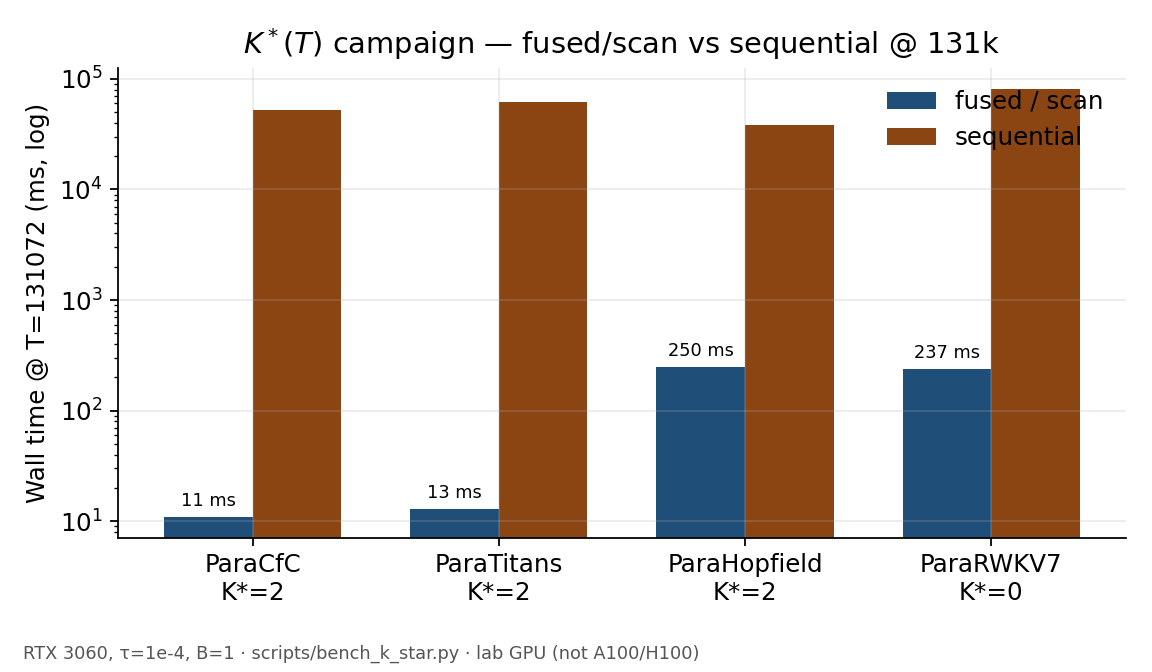
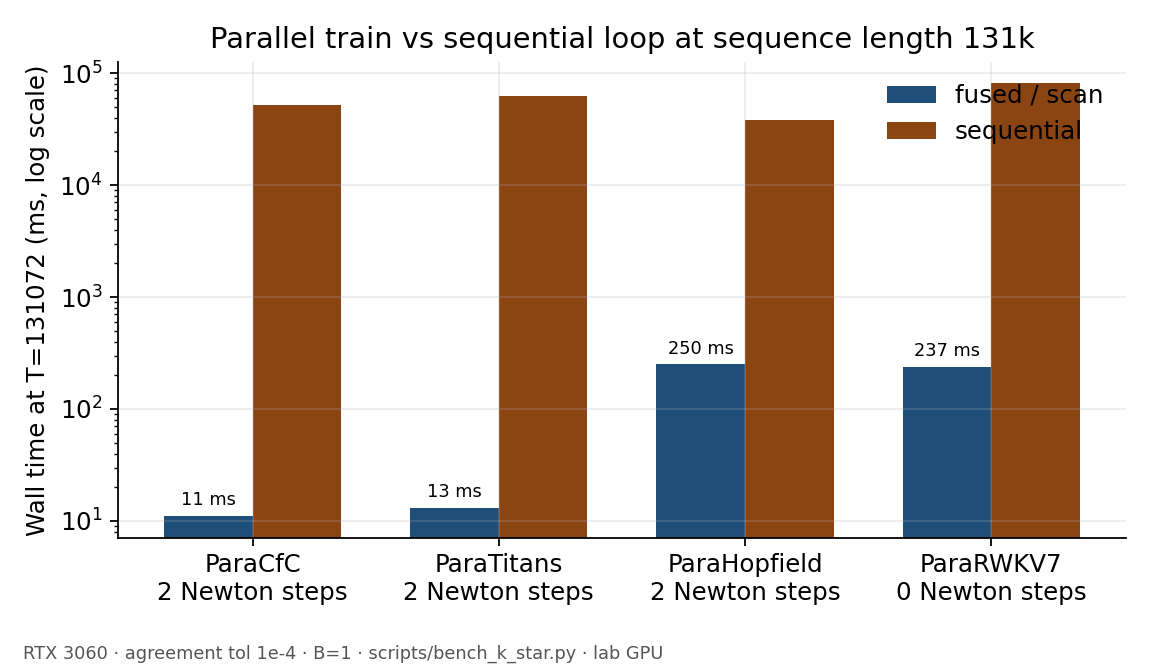
Explain lab jargon for first-time README readers.
Add a glossary (K*, T, fused, Jacobian), plain-language News/benches, and
clearer plot titles so critical Newton depth is defined before it appears.

diff --git a/scripts/plot_readme_assets.py b/scripts/plot_readme_assets.py
@@ -62,7 +62,7 @@ def plot_slstm_speedup() -> Path:
     ax.set_xticklabels([str(t) for t in t_vals])
     ax.set_xlabel("Sequence length T")
     ax.set_ylabel("Forward median (ms)")
-    ax.set_title("ParaSLSTM diag — fused Newton vs sequential")
+    ax.set_title("ParaSLSTM — parallel Newton train vs sequential time loop")
     ax.legend(frameon=False, loc="upper left")
     fig.text(
         0.02,
@@ -83,7 +83,6 @@ def plot_k_star_wall() -> Path:
     cells = ["ParaCfC", "ParaTitans", "ParaHopfield", "ParaRWKV7"]
     fused_ms = [11, 13, 250, 237]
     seq_ms = [52_000, 62_000, 38_000, 81_000]
-    kstar = ["K*=2", "K*=2", "K*=2", "K*=0"]
     fig, ax = plt.subplots(figsize=(7.2, 4.2), dpi=160)
     xs = range(len(cells))
     w = 0.36
@@ -103,9 +102,11 @@ def plot_k_star_wall() -> Path:
     )
     ax.set_yscale("log")
     ax.set_xticks(list(xs))
-    ax.set_xticklabels([f"{c}\n{k}" for c, k in zip(cells, kstar, strict=True)])
-    ax.set_ylabel("Wall time @ T=131072 (ms, log)")
-    ax.set_title(r"$K^*(T)$ campaign — fused/scan vs sequential @ 131k")
+    ax.set_xticklabels(
+        [f"{c}\n{k} Newton steps" for c, k in zip(cells, ["2", "2", "2", "0"], strict=True)]
+    )
+    ax.set_ylabel("Wall time at T=131072 (ms, log scale)")
+    ax.set_title("Parallel train vs sequential loop at sequence length 131k")
     ax.legend(frameon=False)
     for bar, val in zip(bars, fused_ms, strict=True):
         ax.text(
@@ -119,7 +120,7 @@ def plot_k_star_wall() -> Path:
     fig.text(
         0.02,
         0.02,
-        "RTX 3060, τ=1e-4, B=1 · scripts/bench_k_star.py · lab GPU",
+        "RTX 3060 · agreement tol 1e-4 · B=1 · scripts/bench_k_star.py · lab GPU",
         fontsize=8,
         color="#555555",
     )

diff --git a/README.md b/README.md
@@ -9,16 +9,21 @@
 [![ParaRNN](https://img.shields.io/static/v1?label=ParaRNN&message=ICLR%202026&color=B31B1B&logo=arXiv)](https://arxiv.org/abs/2510.21450)
 [![M²RNN](https://img.shields.io/static/v1?label=M%C2%B2RNN&message=arXiv%3A2603.14360&color=B31B1B&logo=arXiv)](https://arxiv.org/abs/2603.14360)
 
-**Hardware-efficient building blocks for nonlinear recurrence:** parallel
-Newton+scan training (span O(log T)) and O(1) sequential decode —
-GRU, LSTM, sLSTM, matrix-state, Liquid, Hopfield, RWKV-7, Titans-style memory,
-and more.
+**Train nonlinear RNNs in parallel over the sequence, decode one step at a
+time.** Package **`pararnn-torch`**, import **`pararnn`**.
 
-Package **`pararnn-torch`**, import **`pararnn`**. Alpha — fused kernels are
-Triton on CUDA (compute capability ≥ 8.0).
+Ordinary GRU/LSTM/sLSTM (and cousins) usually walk token-by-token. That is
+fine for generation, and slow for training long contexts. ParaRNN trains the
+*same* cell with a few Newton updates + a parallel scan over time — so
+training cost grows much more gently with sequence length `T`, while
+`.eval()` still uses the familiar one-step recurrence.
+
+Alpha. Fast fused kernels need NVIDIA Ampere+ (CUDA compute capability ≥ 8.0)
+and Triton; older GPUs fall back to a slower but correct path.
 
 - [News](#news)
 - [What you get](#what-you-get)
+- [Glossary](#glossary)
 - [Models](#models)
 - [Install](#install)
 - [Quickstart](#quickstart)
@@ -35,57 +40,72 @@ Triton on CUDA (compute capability ≥ 8.0).
 
 ## News
 
-- **[2026-09]** K*(T) campaign through **T=131072**: CfC / Hopfield /
-  Titans stay K*=2 (H1); RWKV-7 linear monoid K*=0. Auto
-  schedules via `NewtonConfig(max_iters=None)`.
+- **[2026-09]** Long-context campaign through **T=131072**: several cells need
+  only **2 Newton iterations** to match sequential unroll; RWKV-7 needs **0**
+  (exact parallel scan). `NewtonConfig(max_iters=None)` picks those schedules.
 - **[2026-09]** Cell zoo: `ParaTitans`, `ParaRWKV7`, `ParaHopfield`, `ParaCfC`,
   `ParaNLRU` (v0.13–0.17).
 - **[2026-09]** Product entry: `ParaSLSTMBlock`, `ParaSLSTMForCausalLM`
   (`labels` CE, safetensors), continuous batch + vLLM plugin hooks.
-- **[2026-09]** Factorized Newton for `ParaGRU(mix='head')` / Dreamer slots;
-  M²RNN factorized Jacobian + K*(T) asymptotics.
+- **[2026-09]** Factorized Newton for Dreamer-style `ParaGRU(mix='head')`;
+  matrix-state M²RNN with measured iteration growth.
 
 ## What you get
 
-ParaRNN is a **library for nonlinear recurrent sequence models** — the FLA /
-FlashAttention role for cells whose Jacobian is structured enough for Newton +
-associative scan.
+A library of **nonlinear recurrent cells** with one training/inference API —
+in the same niche as FlashAttention / Flash Linear Attention, for recurrence
+instead of attention.
 
-- **Parallel train** — Alg. 1 Newton + PCR / fused Triton; measured speedups
-  of 100–1000× vs same-cell sequential on long T
-- **O(1) decode** — sequential `step`; CUDA `T=1` Triton `decode_step` (+ CUDA
-  graphs via `decode_wx`)
-- **Growing cell catalog** — diagonal, head-block, dense, and matrix-state
-  Jacobians under one `ParaRNN` / `newton_apply` surface
-- **Stack-ready entrypoints** — trunk block, CausalLM, paged state,
-  continuous batch, speculative verify, optional vLLM registration
-- **Honest depth** — measured K*(T) envelopes (`max_iters=None` or pin);
-  lab grid through 131k tokens
-- **Train hygiene** — packed eq. 2.6 VJP (no Triton atomics),
-  `torch.compile` fullgraph presets, DDP / FSDP2, deterministic-path checks
+- **Fast training on long `T`** — a handful of Newton iterations + parallel
+  scan (paper Alg. 1); measured **100–1000×** vs walking the same cell
+  token-by-token
+- **Cheap decode** — `.eval()` uses sequential `step`; on CUDA with `T=1`,
+  a fused `decode_step` (+ optional CUDA graphs)
+- **One API, many cells** — GRU, LSTM, sLSTM, Liquid CfC, Hopfield, RWKV-7,
+  Titans-style memory, …
+- **Stack-ready** — residual trunk block, CausalLM, paged state, continuous
+  batch, speculative verify, optional vLLM registration
+- **Honest iteration budgets** — we measure how many Newton steps you need
+  vs `T` (see [Glossary](#glossary)); `max_iters=None` uses those tables
+- **Train hygiene** — packed backward, `torch.compile` presets, DDP / FSDP2
 
 **Swap paths** (details in [`docs/adoption.md`](docs/adoption.md)):
 
 - Attention trunk → `ParaSLSTMBlock`
 - Dreamer RSSM → `ParaGRU(mix='head', n_heads=8)`
-- Liquid / CfC → `ParaCfC` (Δt as last channel of `x`)
+- Liquid / CfC → `ParaCfC` (put Δt in the last channel of `x`)
+
+## Glossary
+
+| Term | Meaning here |
+|---|---|
+| **T** | Sequence length (tokens / time steps). |
+| **Cell** | One recurrent update `h_t = f(h_{t-1}, x_t)` (GRU, sLSTM, …). |
+| **Sequential** | The usual for-loop over time — ground truth and the decode path. |
+| **Newton + scan** | Parallel train path: refine a whole-sequence guess with a few Newton steps; each step uses an associative scan over `T`. |
+| **K / `max_iters`** | Number of Newton iterations you budget per forward. |
+| **K\*(T)** | Smallest `K` where parallel output still matches sequential within tolerance τ≈1e-4. Measured per cell vs `T`; often **constant** (2) through 131k tokens. |
+| **Fused** | Triton CUDA kernel for that Newton+scan path (Ampere+). |
+| **Jacobian class** | Structure of ∂f/∂h — `diag` / `head` / `dense` / matrix-state — picks which kernel/scan we use. |
+
+More on iterations: [`FAQs.md`](FAQs.md#what-is-critical-newton-depth-k).
 
 ## Models
 
 | Cell | Jacobian | Parallel path | Notes |
 |---|---|---|---|
-| [`ParaSLSTM`](docs/cells.md#paraslstm-xlstm-style) | diag / head | fused Alg. 1 | main xLSTM-style fused path (`mix='diag'`) |
+| [`ParaSLSTM`](docs/cells.md#paraslstm-xlstm-style) | diag / head | fused Newton | main xLSTM-style path (`mix='diag'`) |
 | [`ParaGRU`](docs/cells.md#paragru--paralstm-dreamer-style-block-gru) / `ParaLSTM` | diag / head | fused / factorized | Dreamer: `mix='head', n_heads=8` |
-| [`ParaM2RNN`](docs/cells.md#param2rnn-research) | factor K×V | factorized Newton | matrix state; K*(T) ~ Θ(log T) |
+| [`ParaM2RNN`](docs/cells.md#param2rnn-research) | factor K×V | factorized Newton | matrix state; iterations grow ~log T |
 | [`ParaNLRU`](docs/cells.md#paranlru) | diag | fused | Griffin / RG-LRU-style nonlinear slot |
 | [`ParaCfC`](docs/cells.md#paracfc) | diag | fused | Liquid CfC; Δt = last channel of `x` |
-| [`ParaHopfield`](docs/cells.md#parahopfield) | dense | `scan_dense` | Modern Hopfield; keep d_h ≤ 32 |
-| [`ParaRWKV7`](docs/cells.md#pararwkv7) | linear monoid | associative `(G,U)` scan | RWKV-7 Goose; K*=0 |
+| [`ParaHopfield`](docs/cells.md#parahopfield) | dense | dense scan | Modern Hopfield; keep d_h ≤ 32 |
+| [`ParaRWKV7`](docs/cells.md#pararwkv7) | linear monoid | exact `(G,U)` scan | RWKV-7 Goose; **no Newton** (K\*=0) |
 | [`ParaTitans`](docs/cells.md#paratitans) | diag | fused | shallow L=1 surprise-GD memory |
 
-Full snippets: [`docs/cells.md`](docs/cells.md). Newton+scan core follows
-[Danieli et al., ICLR 2026](https://arxiv.org/abs/2510.21450). Extras (HF
-wrappers, Mamba-predictor hybrids, IFT adjoint notes) are this repo’s.
+Full snippets: [`docs/cells.md`](docs/cells.md). Core algorithm:
+[Danieli et al., ICLR 2026](https://arxiv.org/abs/2510.21450). HF wrappers and
+serve hooks are this repo’s extras.
 
 ## Install
 
@@ -94,7 +114,7 @@ wrappers, Mamba-predictor hybrids, IFT adjoint notes) are this repo’s.
 | Command | see below | `git clone … && uv sync --group dev` |
 | PyTorch | bring your own (CPU or CUDA) | pinned in `pyproject.toml` (cu128) |
 | Python | 3.10+ | 3.10+ |
-| Fused Triton | CUDA CC ≥ 8.0 | same; else `scan_backend="auto"` → eager |
+| Fused Triton | CUDA CC ≥ 8.0 (Ampere+) | same; else `scan_backend="auto"` → eager |
 
 ```bash
 # when published on PyPI:
@@ -170,8 +190,9 @@ y = model(torch.randn(4, 128, 32, device=device))  # .train() → Newton
 
 ## Feel it (60s)
 
-Z₂ prefix tagging ([Merrill et al.](https://arxiv.org/abs/2404.08819)): last-token
-accuracy **1.0** at train length 16 and held-out 32 for ParaSLSTM Newton.
+Toy task: running XOR on a bit string (prefix parity). A stacked ParaSLSTM
+trained with Newton reaches **last-token accuracy 1.0** at length 16 and still
+**1.0** at held-out length 32 — the nonlinear recurrence carries the bit.
 
 ```bash
 uv run python examples/parity.py
@@ -183,14 +204,20 @@ Interactive tour: [`notebooks/paraslstm_demo.ipynb`](notebooks/paraslstm_demo.ip
 
 ## Benchmarks
 
-Lab GPUs (RTX 2080 Ti / 3060) — honest consumer cards; regenerate plots with
+Two comparisons, both on **the same cell**:
+
+1. **Fused Newton** (this library’s parallel train path) vs **sequential**
+   (`torch.compile` of the usual time loop).
+2. At very long `T`, how many Newton iterations you actually need (**K\***)
+   and what wall time that costs.
+
+Lab GPUs (RTX 2080 Ti / 3060) — consumer cards; regenerate plots with
 `uv run python scripts/plot_readme_assets.py`.
 
 ![ParaSLSTM fused Newton vs sequential](assets/slstm_fused_vs_sequential.png)
 
 Diag-sLSTM forward median (ms), B=8, d_h=256, float32, RTX 2080 Ti
-(`scripts/slstm_vs_flashrnn.py`). Fused Newton = this library’s Alg. 1;
-sequential = `torch.compile` of the same cell.
+(`scripts/slstm_vs_flashrnn.py`):
 
 | T | fused Newton | sequential compiled |
 |------:|-------------:|--------------------:|
@@ -199,17 +226,19 @@ sequential = `torch.compile` of the same cell.
 | 2048 | 29.1 | 840 |
 | 4096 | 69.1 | 1735 |
 
-![K*(T) wall time at T=131072](assets/k_star_wall_131k.png)
+![Newton iterations and wall time at T=131072](assets/k_star_wall_131k.png)
 
-Long-context K*(T) + wall time (`scripts/bench_k_star.py`, RTX 3060,
-τ=1e-4, B=1):
+At **T=131072**, agreement tolerance τ=1e-4, B=1, RTX 3060
+(`scripts/bench_k_star.py`). Labels under each cell are the measured Newton
+budget K\* (how many iterations match sequential). Blue = parallel path;
+brown = sequential for-loop:
 
-| Cell | K* through T=131072 | @131k fused/scan vs seq |
+| Cell | Newton iters K\* through T=131072 | @131k parallel vs sequential |
 |---|---|---|
-| ParaCfC | 2 (H1) | ~11 ms vs ~52 s (~4600×) |
-| ParaTitans | 2 (H1) | ~13 ms vs ~62 s (~5000×) |
-| ParaHopfield | 2 (H1) | ~250 ms vs ~38 s (~150×) |
-| ParaRWKV7 | 0 (linear) | ~237 ms vs ~81 s (~340×, slim 1×16) |
+| ParaCfC | 2 (flat in T) | ~11 ms vs ~52 s (~4600×) |
+| ParaTitans | 2 (flat in T) | ~13 ms vs ~62 s (~5000×) |
+| ParaHopfield | 2 (flat in T) | ~250 ms vs ~38 s (~150×) |
+| ParaRWKV7 | 0 (exact scan) | ~237 ms vs ~81 s (~340×, slim 1×16) |
 
 ParaNLRU smoke (3060, B=8, T=2048, d_h=256, K=3): fused
 **~2.7 ms** vs sequential **~549 ms**.
@@ -249,7 +278,8 @@ Smoke: [`examples/rssm_recurrent.py`](examples/rssm_recurrent.py).
 
 `ParaM2RNN`, `ParaNLRU`, `ParaCfC`, `ParaHopfield`, `ParaRWKV7`, `ParaTitans` —
 see [`docs/cells.md`](docs/cells.md). Pin Newton depth with `max_iters=int`,
-`max_iters=None` (auto K*(T)), or `newton_iters_by_t={…}`.
+use `max_iters=None` for auto schedules from measured K\*(T), or pass
+`newton_iters_by_t={…}`.
 
 ## Training
 
@@ -261,12 +291,12 @@ Distributed wrap: [`docs/distributed.md`](docs/distributed.md) ·
 
 ## Evaluation
 
-- **Numerics** — sequential ↔ Newton agreement (`pytest -m cuda`); residual
-  history on divergence.
-- **Expressivity** — Z₂ parity ([`examples/parity.py`](examples/parity.py)).
+- **Numerics** — parallel vs sequential agreement (`pytest -m cuda`); residual
+  history if Newton fails to converge
+- **Expressivity** — running-XOR parity ([`examples/parity.py`](examples/parity.py))
 - **Wall-clock** — [`scripts/bench_k_star.py`](scripts/bench_k_star.py),
-  [`scripts/slstm_vs_flashrnn.py`](scripts/slstm_vs_flashrnn.py).
-- **LM smoke** — BabyLM drop-in / distill notes under [`results/`](results/).
+  [`scripts/slstm_vs_flashrnn.py`](scripts/slstm_vs_flashrnn.py)
+- **LM smoke** — BabyLM notes under [`results/`](results/)
 
 ## Examples
 
@@ -275,7 +305,7 @@ Distributed wrap: [`docs/distributed.md`](docs/distributed.md) ·
 | [`causal_lm_smoke.py`](examples/causal_lm_smoke.py) | CausalLM CE + generate + safetensors | `uv run python examples/causal_lm_smoke.py` |
 | [`continuous_batch.py`](examples/continuous_batch.py) | Packed prefill + T=1 via `BlockStackPool` | `uv run python examples/continuous_batch.py` |
 | [`rssm_recurrent.py`](examples/rssm_recurrent.py) | Dreamer `ParaGRU(mix='head')` | `uv run python examples/rssm_recurrent.py` |
-| [`parity.py`](examples/parity.py) | Z₂ vs linear SSM | `uv run python examples/parity.py` |
+| [`parity.py`](examples/parity.py) | Running XOR vs linear SSM | `uv run python examples/parity.py` |
 | [`decode_step.py`](examples/decode_step.py) | T=1 Triton vs eager | `uv run python examples/decode_step.py` |
 | [`ddp_fsdp.py`](examples/ddp_fsdp.py) | DDP / FSDP2 wrap | `uv run torchrun --nproc_per_node=2 examples/ddp_fsdp.py` |
 | [`speculative_draft.py`](examples/speculative_draft.py) | Linear-draft verify | `uv run python examples/speculative_draft.py` |
@@ -292,7 +322,7 @@ More: [`scripts/README.md`](scripts/README.md). Distributed demos:
 - **CausalLM / serve** — `ParaSLSTMForCausalLM`, `BlockStackPool`,
   `vllm.general_plugins` ([`docs/vllm.md`](docs/vllm.md)).
 - **Solver** — `NewtonConfig(scan_backend="auto", max_iters=None|int)`;
-  `picard_iters` for sLSTM / M²RNN warm-starts.
+  `picard_iters` warms the first guess for sLSTM / M²RNN.
 - **Speculative** — `verify_linear_draft`.
 - **Paged** — `PagedStatePool` / `paged_apply`.
 - **Decode** — `decode_step`, `decode_wx`, `can_decode_step`.
@@ -311,10 +341,11 @@ h = sequential_apply(cell, x)
 
 ## Compatibility
 
-- **`torch.compile`:** compile-safe preset (fixed K, no residual host sync)
-  → `fullgraph=True` on eager and fused (`tests/numerics/test_compile.py`).
+- **`torch.compile`:** compile-safe preset (fixed Newton iters, no residual
+  host sync) → `fullgraph=True` on eager and fused
+  (`tests/numerics/test_compile.py`).
 - **AMP:** module/`x` dtype explicit; under outer autocast Newton opts out so
-  eq. 2.6 stays one dtype (`tests/numerics/test_autocast.py`).
+  the backward stays one dtype (`tests/numerics/test_autocast.py`).
 - **DDP / FSDP / checkpoint:** [`docs/distributed.md`](docs/distributed.md);
   `NewtonConfig(recompute=True)` for ultra-long train T.
 - **Determinism:** packed VJP uses tile `tl.sum` then `.sum` (no `tl.atomic*`);
@@ -323,16 +354,23 @@ h = sequential_apply(cell, x)
 
 ## Method
 
-Training solves
-$`F(H)_t = h_t - f(h_{t-1}, x_t) = 0`$
-with Newton + parallel scan (Alg. 1). Layout:
-[`src/pararnn/layout.py`](src/pararnn/layout.py).
-GRU/LSTM warm-start App. A ($`h_l^{(0)}=f(0,x_l)`$); sLSTM zero-hidden + Picard.
-Recurrent clip App. C.1. Backward: paper eq. 2.6. M²RNN uses the factorized map
-$`J[\Delta]=f\Delta+(1-f)(1-Z^{\odot 2})\odot(\Delta W)`$.
+We solve for the whole hidden trajectory at once:
 
-Critical depth K*(T): [`scripts/bench_k_star.py`](scripts/bench_k_star.py);
-auto schedules in `pararnn.solvers.newton.k_star`.
+$`F(H)_t = h_t - f(h_{t-1}, x_t) = 0`$
+
+with Newton updates; each linear solve is an associative scan over time
+(Danieli et al., Alg. 1). Layout: [`src/pararnn/layout.py`](src/pararnn/layout.py).
+
+**K\*(T)** is the smallest Newton iteration count that still matches a
+sequential unroll within τ≈1e-4. We measure it per cell on a `T` grid and
+ship the envelopes in `pararnn.solvers.newton.k_star`;
+`NewtonConfig(max_iters=None)` reads them. Campaign script:
+[`scripts/bench_k_star.py`](scripts/bench_k_star.py).
+
+GRU/LSTM warm-start follows paper App. A ($`h_l^{(0)}=f(0,x_l)`$); sLSTM uses
+zero-hidden + Picard. Backward follows paper eq. 2.6. M²RNN uses a factorized
+Jacobian map
+$`J[\Delta]=f\Delta+(1-f)(1-Z^{\odot 2})\odot(\Delta W)`$.
 
 ## Citation
 

diff --git a/FAQs.md b/FAQs.md
@@ -13,17 +13,29 @@ Fused Triton kernels target CC ≥ 8.0. Use
 scan paths. Wall-clock will be slower than fused; numerics stay on the same
 Alg. 1 surface.
 
+## What is critical Newton depth (K*)?
+
+Training walks a few **Newton iterations** over the whole sequence. **K\*(T)**
+is the smallest iteration count where the parallel result still matches a
+plain sequential for-loop within tolerance τ≈1e-4, as a function of sequence
+length T.
+
+For several cells here K\* stays **2** from short T through T=131072 (does not
+grow with T). RWKV-7 is an exact parallel scan, so K\*=0. Set
+`NewtonConfig(max_iters=None)` to use the measured schedules in
+`pararnn.solvers.newton.k_star`.
+
 ## How many Newton iterations should I use?
 
 - Pin with `NewtonConfig(max_iters=3)` for ParaGRU / ParaLSTM-style cells
   (Danieli et al. 2025 §2.1 / App. A empirical agreement).
-- Use `max_iters=None` for measured K*(T) auto schedules
+- Use `max_iters=None` for measured K\*(T) auto schedules
   (`pararnn.solvers.newton.k_star`); campaign through T=131072 via
   `scripts/bench_k_star.py`.
 - Override with `newton_iters_by_t={64: 2, 1024: 3, …}` when you have a table.
 
 If residual stays high, try Picard warm-start (`picard_iters`) before raising
-K.
+the iteration budget.
 
 ## Does `torch.compile` work?
 
